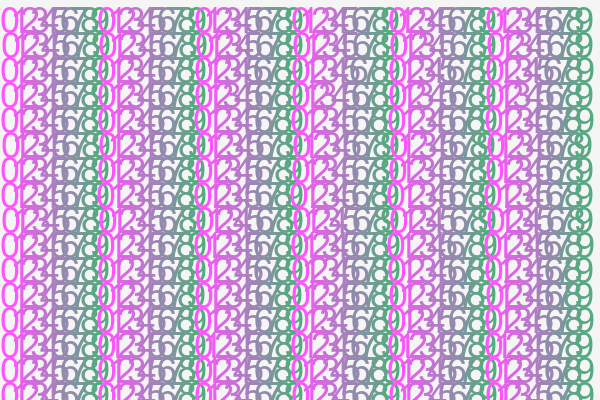
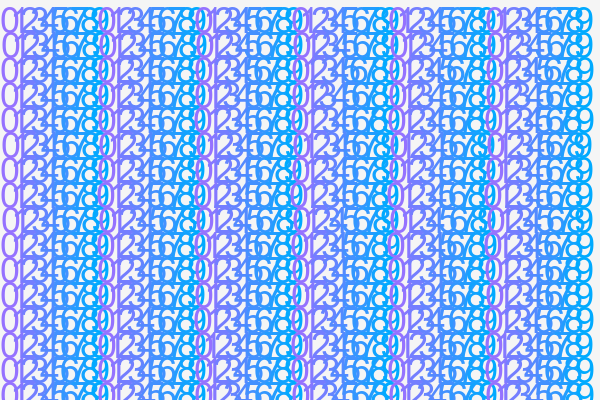
color gradient spawn gives random colors

diff --git a/color_select_dialog.py b/color_select_dialog.py
@@ -1,4 +1,5 @@
 import sys, os
+from random import randint
 from PyQt5.QtWidgets import QApplication, QMainWindow, QPushButton, QDialog, QVBoxLayout, QColorDialog
 from ui_custom_gradient import *
 
@@ -78,7 +79,7 @@ class GradientCallable():
 
 
 class CustomGradientWindow(Ui_Dialog):
-    def __init__(self, parent=None):
+    def __init__(self, parent=None, s_color=QColor(170,255,0), t_color=QColor(85,170,127)):
         super().__init__()
         self.mainwindow = parent
         self.setupUi(self)
@@ -94,8 +95,9 @@ class CustomGradientWindow(Ui_Dialog):
         # self.apply_stylesheet will be called by parent
 
         # =============================== Setup =============================== 
-        self.selected_colors = {START_COLOR_STR: QColor(170,255,0), END_COLOR_STR: QColor(85,170,127)}
-        self.generate_and_set_preview() # for the init colors
+        self.selected_colors = {START_COLOR_STR: s_color, END_COLOR_STR: t_color}
+        self.update_color(self.btn_edit_start_color, self.start_color_label, START_COLOR_STR, manual_color=s_color)
+        self.update_color(self.btn_edit_end_color, self.end_color_label, END_COLOR_STR, manual_color=t_color)
 
         # ============================== Buttons ============================== 
         self.btn_edit_start_color.clicked.connect(self.determine_start_color)
@@ -124,9 +126,15 @@ class CustomGradientWindow(Ui_Dialog):
 
         self.mainwindow.collection_gradients[self.mainwindow.last_unsaved_custom_slot] = custom_grad_function
         self.pending_gradient = g
+
+        # update the stylesheet based on the colors have selected via help from the mainwindow (parent) window
+        self.apply_stylesheet(self.request_custom_stylesheet(
+            self.selected_colors[START_COLOR_STR],
+            self.selected_colors[END_COLOR_STR])
+                                  )
         return custom_grad_function
 
-    def update_color(self, associated_button=None, associated_label=None, color_type=None):
+    def update_color(self, associated_button=None, associated_label=None, color_type=None, manual_color=None):
         """
         args:
             associated_button: QPushButton
@@ -134,7 +142,11 @@ class CustomGradientWindow(Ui_Dialog):
             color_type: str
         """
 
-        color = QColorDialog.getColor()
+        if manual_color:
+            color = manual_color
+        else:
+            color = QColorDialog.getColor()
+
         if color.isValid():
             self.selected_colors[color_type] = color
             r = color.red()
@@ -164,11 +176,27 @@ class CustomGradientWindow(Ui_Dialog):
             if self.mainwindow.ui.gradient_select.currentIndex() == self.mainwindow.last_unsaved_custom_slot:
                 self.mainwindow.update_gradient_settings(self.mainwindow.last_unsaved_custom_slot)
 
+
+    def request_custom_stylesheet(self, s_color, t_color):
+        return self.mainwindow.provide_one_time_stylesheet(s_color, t_color)
+
     def apply_stylesheet(self, stylesheet):
         for w in self.top_level_widgets:
             w.setStyleSheet(stylesheet)
             
 
-def get_gradient_diaglog(mainwindow):
-    ret = CustomGradientWindow(mainwindow)
+def get_gradient_diaglog(mainwindow, s=None, t=None):
+    if s and t:
+        ret = CustomGradientWindow(mainwindow, s_color=s, t_color=t)
+    else:
+        # radnom color generation
+        s = [randint(0,255) for _ in range(3)]
+        t = [randint(0,255) for _ in range(3)]
+        s[randint(0, 2)] = 255
+        t[randint(0, 2)] = 255
+        print(s)
+        print("s is:", s)
+        s_color = QColor(s[0], s[1], s[2])
+        t_color = QColor(t[0], t[1], t[2])
+        ret = CustomGradientWindow(mainwindow, s_color=s_color, t_color=t_color)
     return ret

diff --git a/mainwindow.py b/mainwindow.py
@@ -444,13 +444,31 @@ class MainWindow(QMainWindow):
         if not self.custom_gradient_dialog_been_setup:
             self.ui_gradient_diag = color_select_dialog.get_gradient_diaglog(self)
             self.custom_gradient_dialog_been_setup = True
-        self.ui_gradient_diag.apply_stylesheet(stylesheet.stylesheet)
+        
+
+        ###### TODO: remove this part and integerate with the rest of the program #####
+        temp_s = self.ui_gradient_diag.selected_colors[color_select_dialog.START_COLOR_STR]
+        temp_t = self.ui_gradient_diag.selected_colors[color_select_dialog.END_COLOR_STR]
+        ss = self.ui_gradient_diag.request_custom_stylesheet(temp_s, temp_t)
+        ###############################################################################
         self.ui_gradient_diag.show()
+        ###### TODO: remove this part and integerate with the rest of the program #####
+        self.ui_gradient_diag.apply_stylesheet(ss)
+        ###############################################################################
 
     # ========================= Interface Functions w Color Picker ========================
 
     def generate_one_line_gradient_preview(self, grad_function_callable):
         sn.generate_gradient_preview_image(grad_function_callable)
+
+    def provide_one_time_stylesheet(self, s, t):
+        """
+        provide a temp stylesheet for the gradient picker since 
+        it may use a different theme than the rest
+        """
+        s_rgb_tuple = (s.red(), s.green(), s.blue())
+        t_rgb_tuple = (t.red(), t.green(), t.blue())
+        return stylesheet.update_color_schemes(s_rgb_tuple, t_rgb_tuple, tmp_stylesheet=True)
 
     # ========================= Spawning Save Preview ====================================
     def spawn_save_preview(self):

diff --git a/stylesheet.py b/stylesheet.py
@@ -53,11 +53,14 @@ def gen_text_color(base_color, delta=-40):
   return tuple(ret)
 
 
-def update_color_schemes(s_color, t_color):
+def update_color_schemes(s_color, t_color, tmp_stylesheet=False):
+  # tmp_stylesheet means the generated stylesheet will not be used globally
+  if not tmp_stylesheet:
+    global stylesheet
+
   global user_gradient
   global start_color
   global end_color
-  global stylesheet
   global text_color
 
   start_color = f"rgb{s_color}"
@@ -1478,6 +1481,7 @@ def update_color_schemes(s_color, t_color):
          user_gradient,
       )
   # print(stylesheet)
+  return stylesheet
 
 
 update_color_schemes(start_color, end_color)
